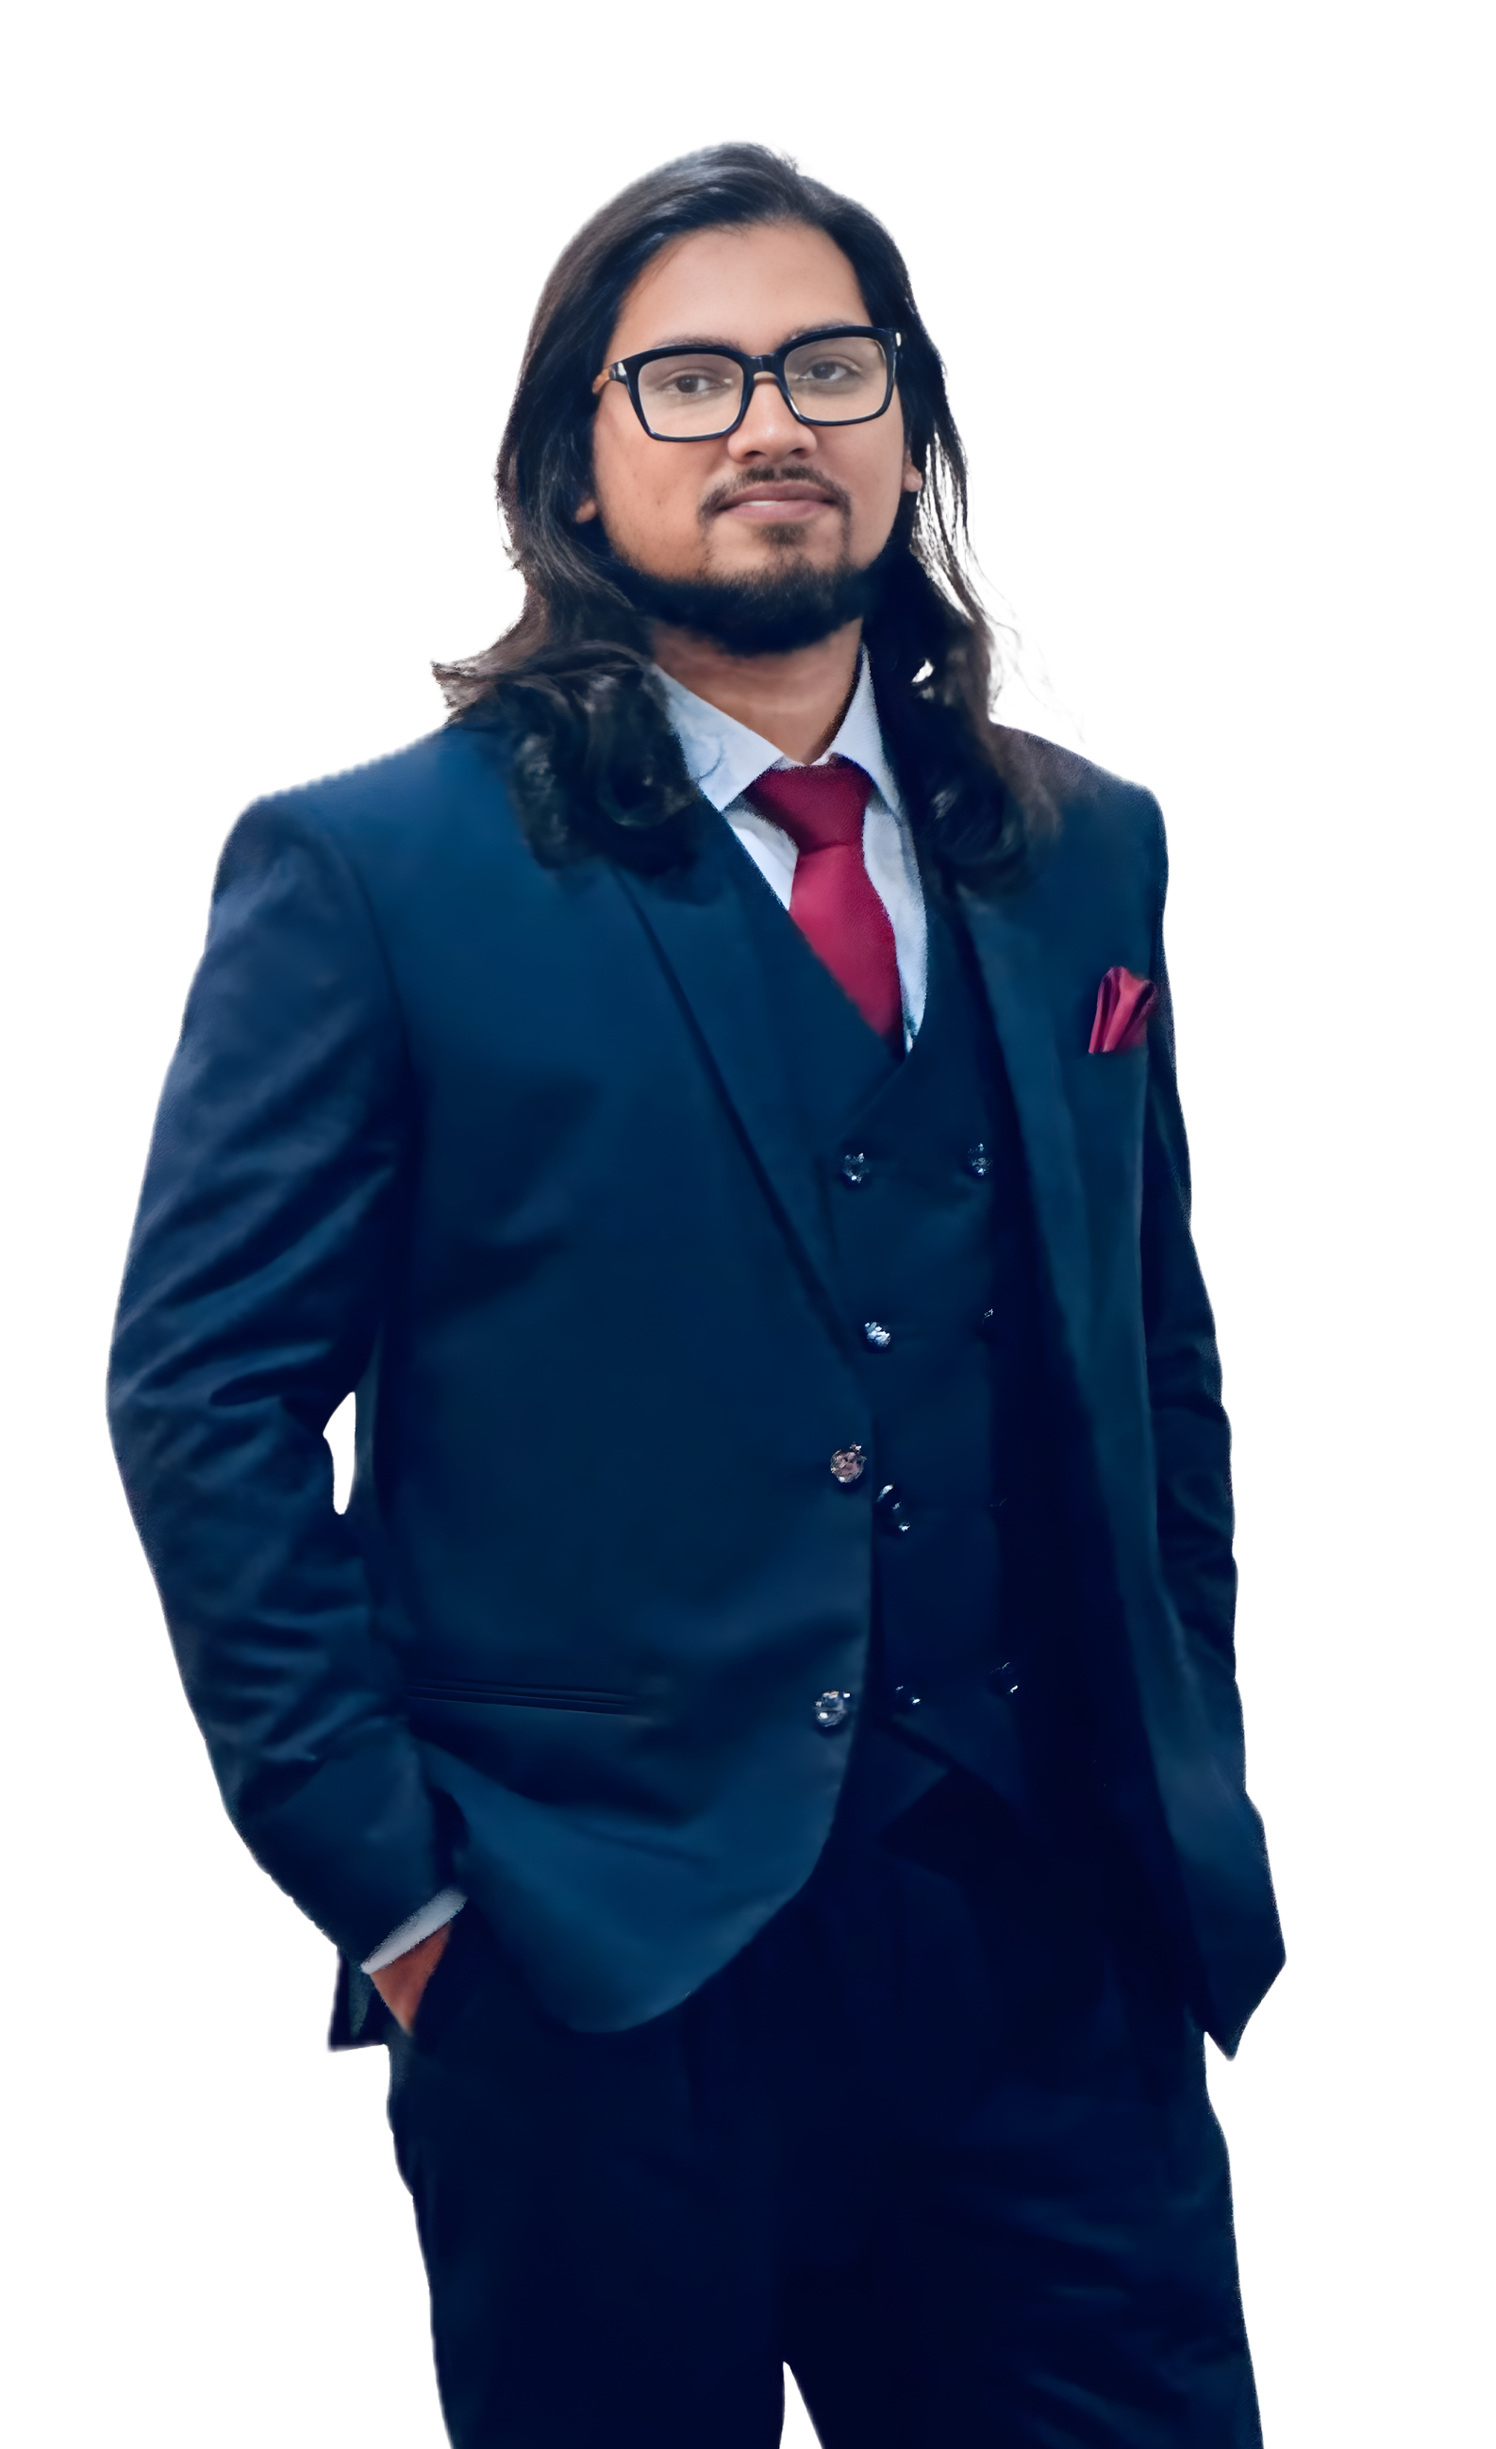
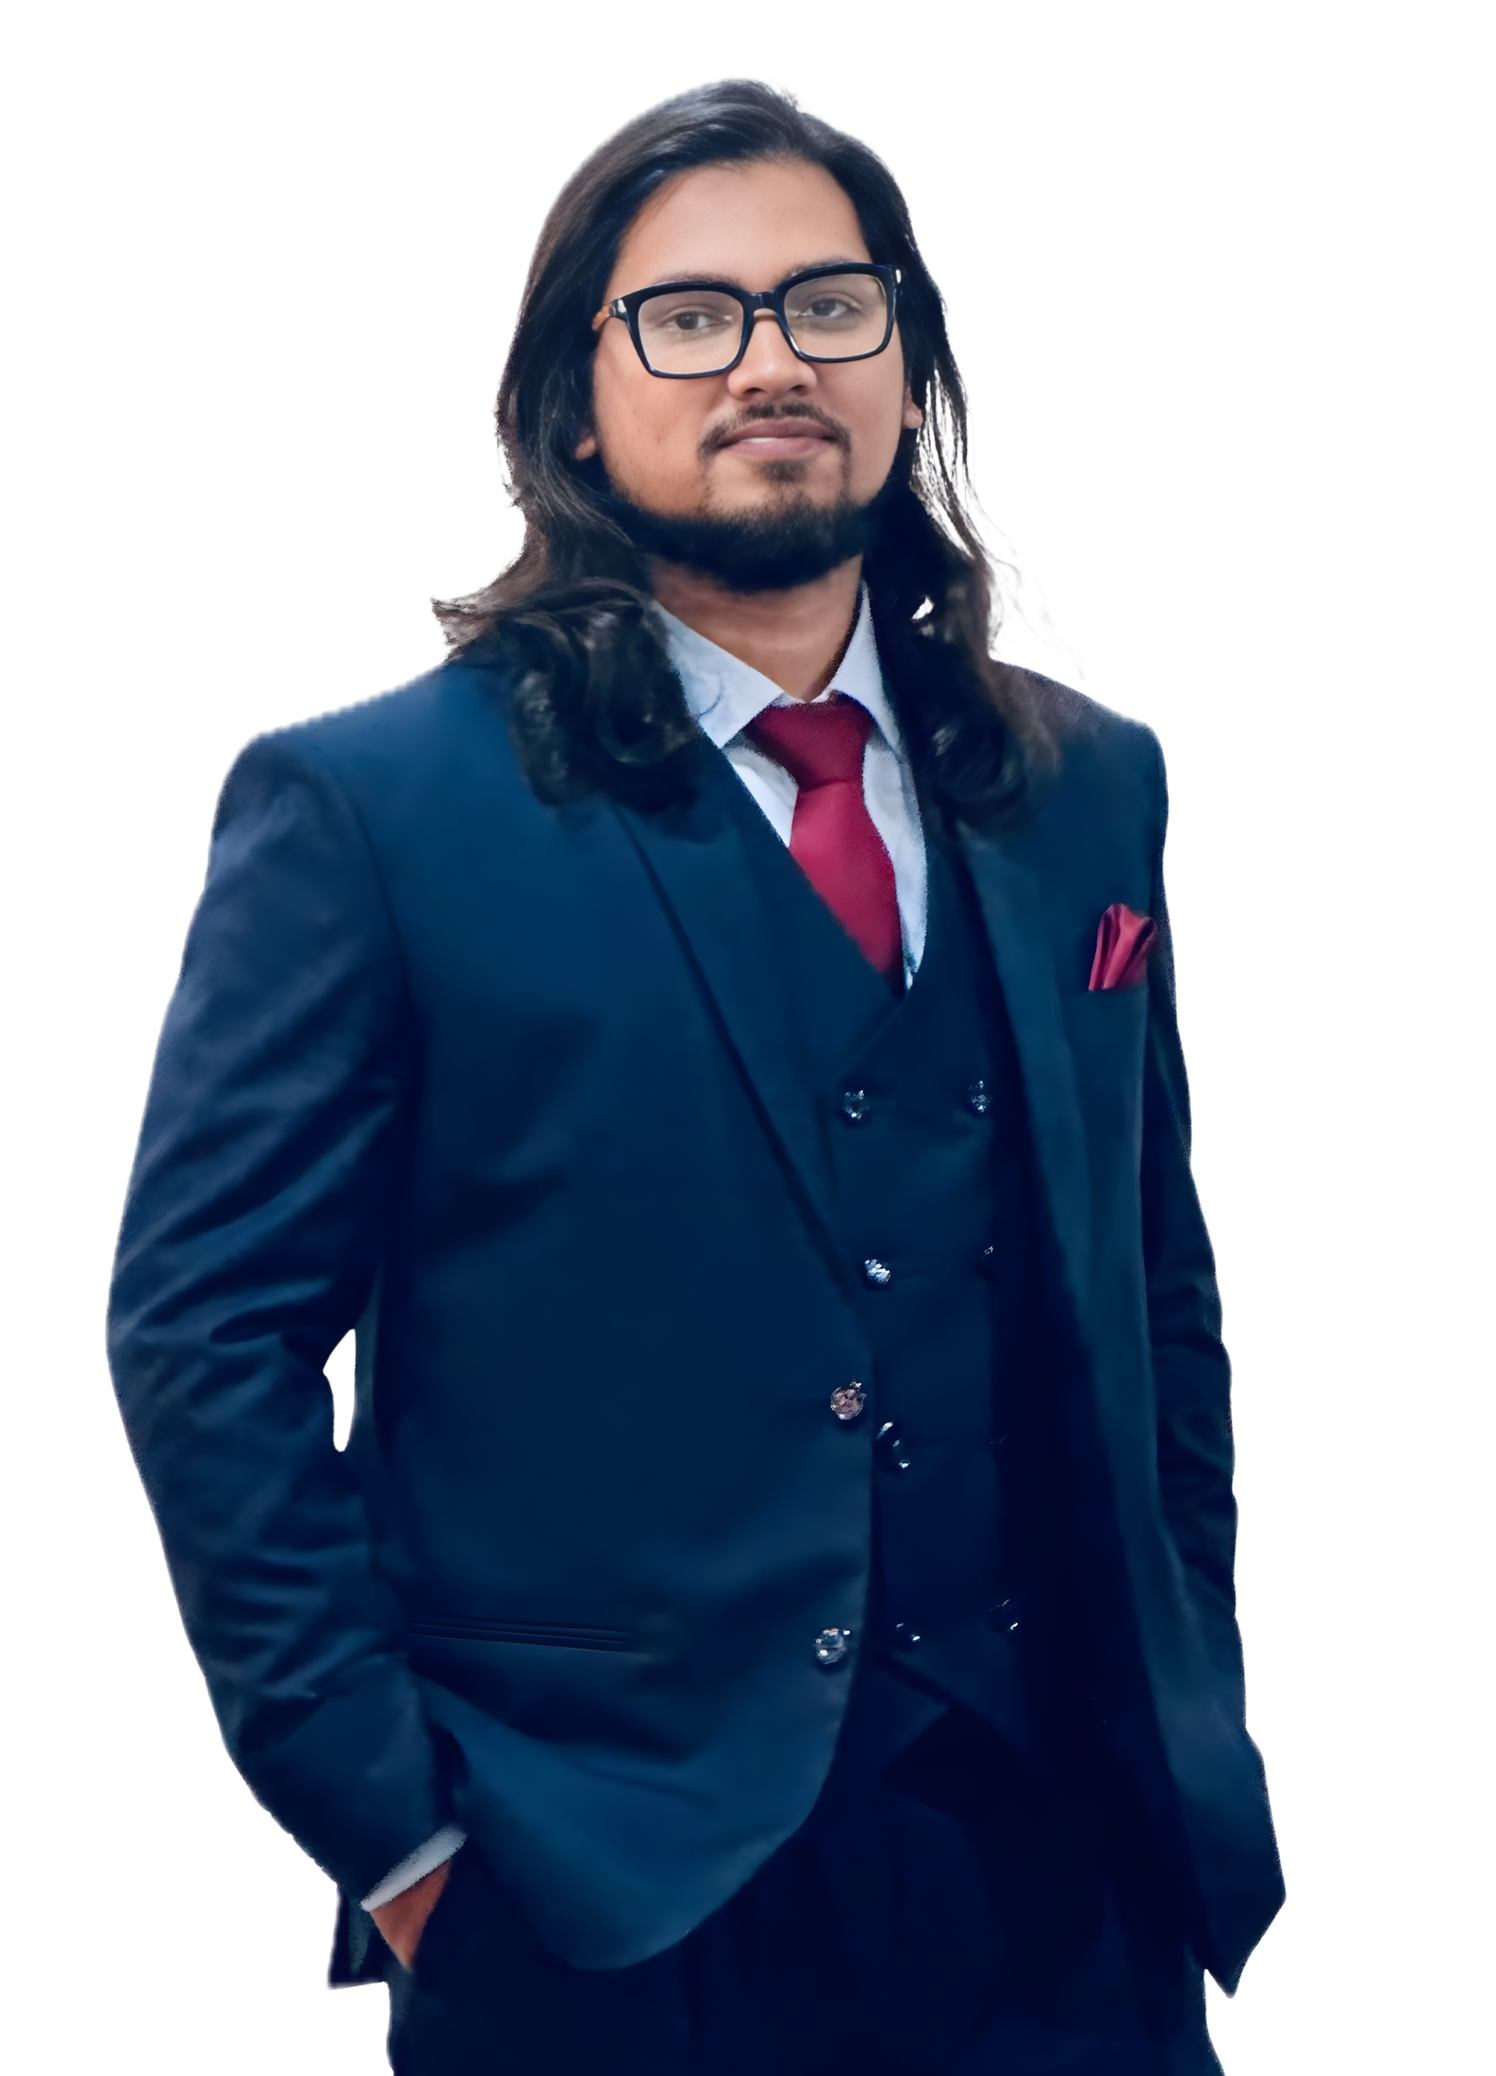
Update profile image style and color theme

diff --git a/style.css b/style.css
@@ -2,19 +2,19 @@
    CUSTOM PROPERTIES
    =========================== */
 :root {
-    --bg: #060608;
-    --bg-card: #0c0c12;
-    --bg-card-hover: #101018;
-    --bg-elevated: #141420;
-    --text: #f0f0f4;
-    --text-secondary: #9898b0;
-    --text-muted: #5c5c78;
-    --accent: #818cf8;
-    --accent-dim: rgba(129, 140, 248, 0.08);
-    --accent-glow: rgba(129, 140, 248, 0.15);
-    --border: rgba(255, 255, 255, 0.06);
-    --border-hover: rgba(255, 255, 255, 0.12);
-    --gradient: linear-gradient(135deg, #6366f1 0%, #a78bfa 100%);
+    --bg: #040b11;
+    --bg-card: #0a1622;
+    --bg-card-hover: #102232;
+    --bg-elevated: #162b3e;
+    --text: #ebf6ff;
+    --text-secondary: #9ab3c8;
+    --text-muted: #5f7e96;
+    --accent: #22d3ee;
+    --accent-dim: rgba(34, 211, 238, 0.1);
+    --accent-glow: rgba(34, 211, 238, 0.2);
+    --border: rgba(113, 164, 199, 0.18);
+    --border-hover: rgba(113, 164, 199, 0.32);
+    --gradient: linear-gradient(135deg, #22d3ee 0%, #a855f7 100%);
     --radius: 16px;
     --radius-sm: 10px;
     --radius-xs: 6px;
@@ -40,7 +40,7 @@ body {
 }
 
 a { color: var(--accent); text-decoration: none; transition: color var(--transition); }
-a:hover { color: #a5b4fc; }
+a:hover { color: #67e8f9; }
 img, video { max-width: 100%; display: block; }
 
 .container { max-width: 1140px; margin: 0 auto; padding: 0 28px; }
@@ -53,7 +53,7 @@ img, video { max-width: 100%; display: block; }
     width: 600px;
     height: 600px;
     border-radius: 50%;
-    background: radial-gradient(circle, rgba(99, 102, 241, 0.06) 0%, transparent 70%);
+    background: radial-gradient(circle, rgba(34, 211, 238, 0.08) 0%, rgba(168, 85, 247, 0.04) 38%, transparent 72%);
     pointer-events: none;
     z-index: 0;
     transform: translate(-50%, -50%);
@@ -70,7 +70,7 @@ img, video { max-width: 100%; display: block; }
     left: 0;
     width: 100%;
     z-index: 1000;
-    background: rgba(6, 6, 8, 0.8);
+    background: rgba(4, 11, 17, 0.82);
     backdrop-filter: blur(24px);
     -webkit-backdrop-filter: blur(24px);
     border-bottom: 1px solid var(--border);
@@ -122,12 +122,12 @@ img, video { max-width: 100%; display: block; }
     color: var(--accent) !important;
     padding: 8px 20px;
     border-radius: 50px;
-    border: 1px solid rgba(129, 140, 248, 0.2);
+    border: 1px solid rgba(34, 211, 238, 0.3);
     transition: all var(--transition) !important;
 }
 
 .nav-cta:hover {
-    background: rgba(129, 140, 248, 0.15) !important;
+    background: rgba(34, 211, 238, 0.18) !important;
     border-color: var(--accent) !important;
 }
 
@@ -173,7 +173,7 @@ img, video { max-width: 100%; display: block; }
     align-items: center;
     gap: 10px;
     background: var(--accent-dim);
-    border: 1px solid rgba(129, 140, 248, 0.15);
+    border: 1px solid rgba(34, 211, 238, 0.25);
     padding: 8px 20px;
     border-radius: 50px;
     margin-bottom: 40px;
@@ -236,19 +236,32 @@ img, video { max-width: 100%; display: block; }
 }
 
 .profile-img-wrap {
-    width: 150px;
-    height: 150px;
-    border-radius: 50%;
+    width: 156px;
+    height: 156px;
+    border-radius: 22px;
     overflow: hidden;
-    border: 3px solid var(--border-hover);
+    border: 1px solid rgba(168, 85, 247, 0.35);
+    padding: 5px;
+    background: linear-gradient(145deg, rgba(34, 211, 238, 0.5), rgba(14, 165, 233, 0.2) 45%, rgba(168, 85, 247, 0.55));
+    box-shadow: 0 18px 36px rgba(34, 211, 238, 0.2);
     flex-shrink: 0;
+    transform: rotate(-3deg);
+    transition: transform var(--transition), box-shadow var(--transition), border-color var(--transition);
+}
+
+.hero-profile:hover .profile-img-wrap {
+    transform: translateY(-4px) rotate(0deg);
+    border-color: rgba(168, 85, 247, 0.65);
+    box-shadow: 0 24px 45px rgba(34, 211, 238, 0.26);
 }
 
 .profile-img-wrap img {
     width: 100%;
     height: 100%;
     object-fit: cover;
-    object-position: center 20%;
+    object-position: center 8%;
+    border-radius: 17px;
+    filter: saturate(1.06) contrast(1.03);
 }
 
 .hero-meta {
@@ -385,7 +398,7 @@ img, video { max-width: 100%; display: block; }
 
 .case-card:hover {
     border-color: var(--border-hover);
-    box-shadow: 0 0 60px rgba(99, 102, 241, 0.04);
+    box-shadow: 0 0 60px rgba(34, 211, 238, 0.1);
     transform: translateY(-4px);
 }
 
@@ -398,7 +411,7 @@ img, video { max-width: 100%; display: block; }
     min-height: 240px;
     max-height: 340px;
     overflow: hidden;
-    background: #0a0a14;
+    background: #091725;
 }
 
 .case-media img {
@@ -516,7 +529,7 @@ img, video { max-width: 100%; display: block; }
     font-size: 0.75rem;
     font-weight: 500;
     letter-spacing: 0.02em;
-    border: 1px solid rgba(129, 140, 248, 0.1);
+    border: 1px solid rgba(34, 211, 238, 0.2);
 }
 
 /* ===========================
@@ -713,7 +726,7 @@ img, video { max-width: 100%; display: block; }
 .research-status-badge.completed {
     background: var(--accent-dim);
     color: var(--accent);
-    border: 1px solid rgba(129, 140, 248, 0.15);
+    border: 1px solid rgba(34, 211, 238, 0.28);
 }
 
 .research-item h3 {
@@ -753,7 +766,7 @@ img, video { max-width: 100%; display: block; }
     font-size: 0.72rem;
     font-weight: 600;
     letter-spacing: 0.02em;
-    border: 1px solid rgba(129, 140, 248, 0.1);
+    border: 1px solid rgba(34, 211, 238, 0.2);
 }
 
 /* ===========================
@@ -1368,7 +1381,7 @@ img, video { max-width: 100%; display: block; }
         top: 72px;
         left: 0;
         width: 100%;
-        background: rgba(6, 6, 8, 0.95);
+        background: rgba(4, 11, 17, 0.95);
         backdrop-filter: blur(24px);
         flex-direction: column;
         align-items: center;
